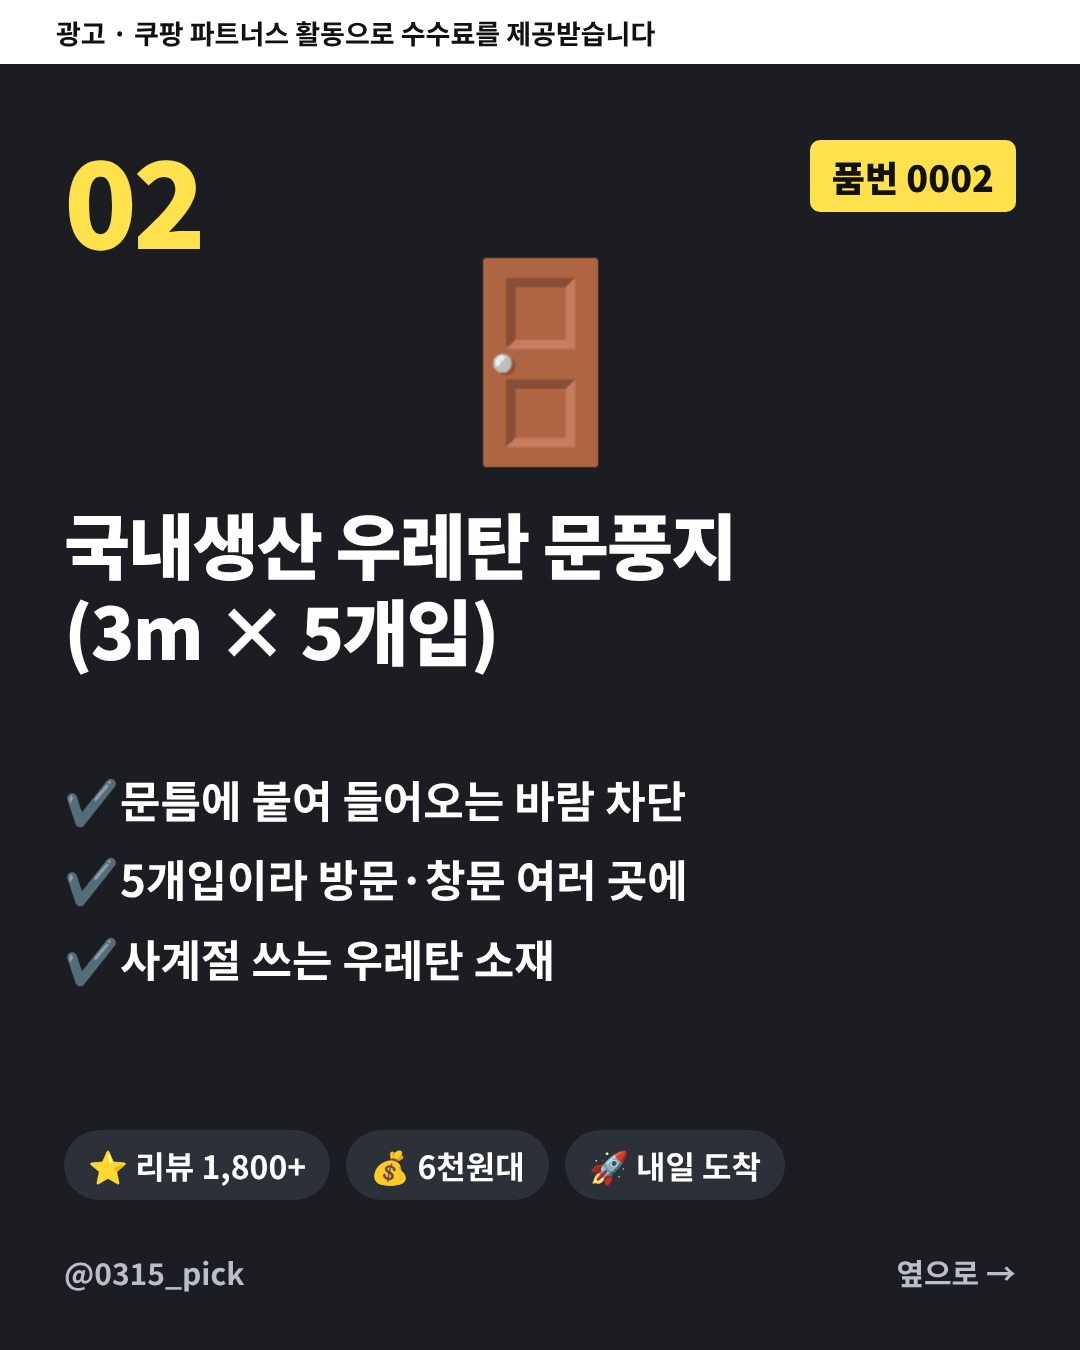
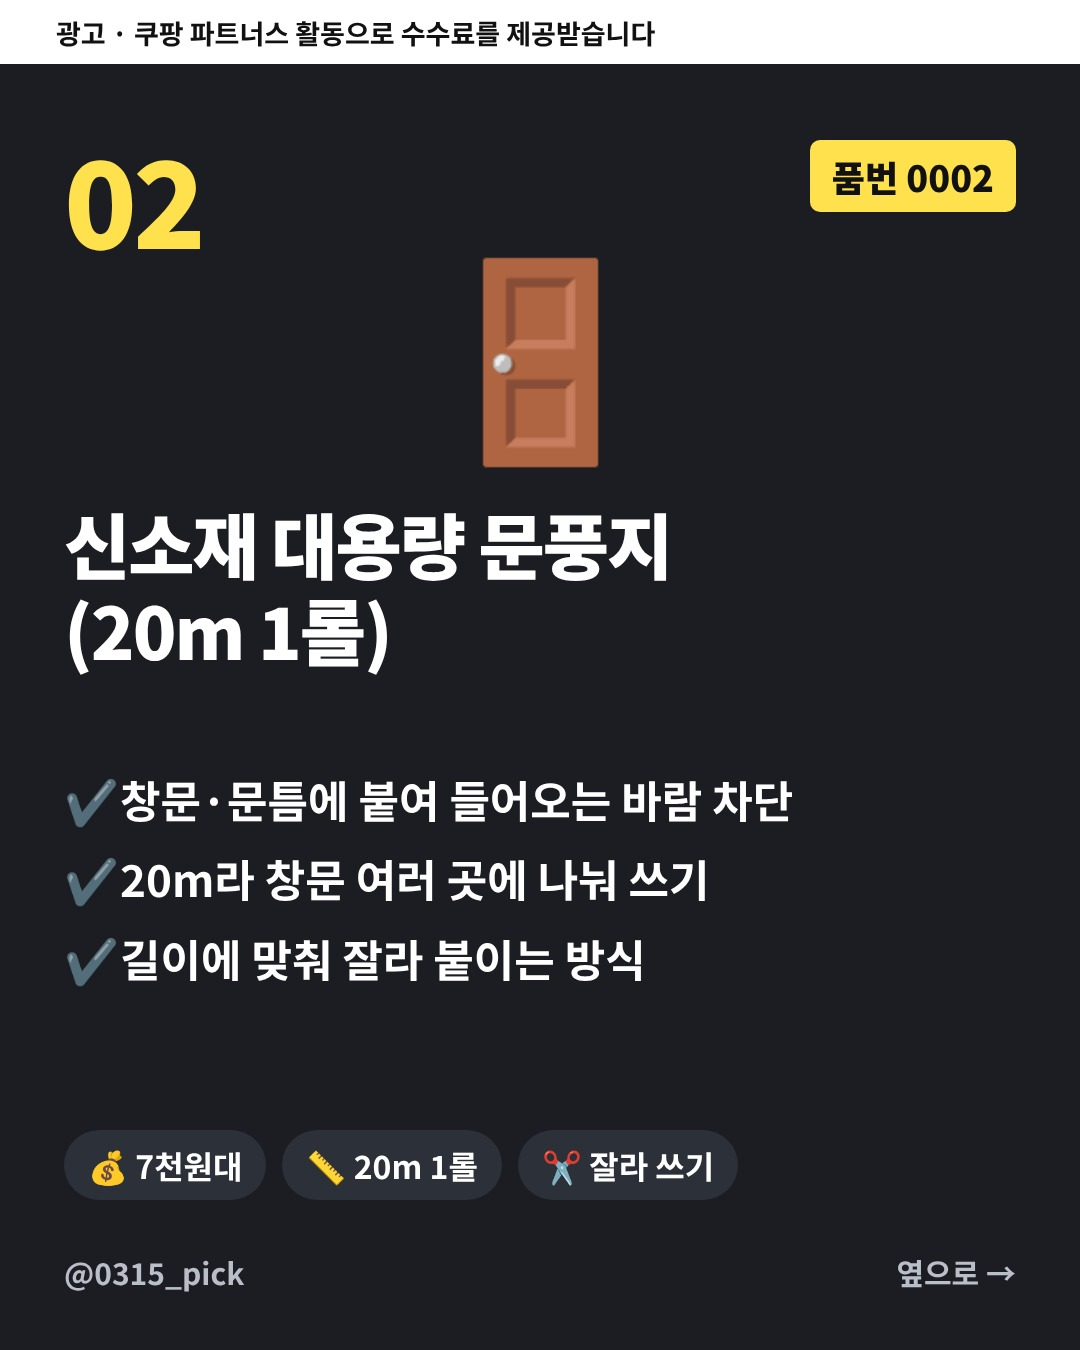
10/22 문풍지를 링크 생성 가능한 끌리온 20m로 교체, 링크 반영
Claude-Session: https://claude.ai/code/session_01KxSwLr9DfWSMf1EfiV4S9g

Changed region(s): [[0.1222, 0.56, 0.7333, 0.7467], [0.0611, 0.3733, 0.7028, 0.4978], [0.0917, 0.84, 0.7028, 0.9022]]

diff --git a/docs/posts/2026-10-22/C/slides/03.html b/docs/posts/2026-10-22/C/slides/03.html
@@ -19,6 +19,6 @@ body{font-family:'Noto Sans CJK KR','Noto Color Emoji',sans-serif;position:relat
 .step b{flex:none;width:76px;height:76px;border-radius:50%;background:#ffe14d;color:#111;font-size:44px;display:grid;place-items:center}
 .step p{font-size:44px;font-weight:700;line-height:1.35}.step small{display:block;font-size:30px;color:#b9bec8;font-weight:600}</style></head><body><div class="ad">광고 · 쿠팡 파트너스 활동으로 수수료를 제공받습니다</div>
 <div class="num">02</div><div class="code">품번 0002</div>
-<div class="pemo">🚪</div><div class="pname">국내생산 우레탄 문풍지<br>(3m × 5개입)</div>
-<div class="pts"><div>문틈에 붙여 들어오는 바람 차단</div><div>5개입이라 방문·창문 여러 곳에</div><div>사계절 쓰는 우레탄 소재</div></div>
-<div class="meta"><span>⭐ 리뷰 1,800+</span><span>💰 6천원대</span><span>🚀 내일 도착</span></div><div class="foot"><span>@0315_pick</span><span>옆으로 →</span></div></body></html>
+<div class="pemo">🚪</div><div class="pname">신소재 대용량 문풍지<br>(20m 1롤)</div>
+<div class="pts"><div>창문·문틈에 붙여 들어오는 바람 차단</div><div>20m라 창문 여러 곳에 나눠 쓰기</div><div>길이에 맞춰 잘라 붙이는 방식</div></div>
+<div class="meta"><span>💰 7천원대</span><span>📏 20m 1롤</span><span>✂ 잘라 쓰기</span></div><div class="foot"><span>@0315_pick</span><span>옆으로 →</span></div></body></html>

diff --git a/docs/posts/2026-10-22/A/slides/07.html b/docs/posts/2026-10-22/A/slides/07.html
@@ -22,7 +22,7 @@ ol.prod b{flex:none;width:64px;height:64px;border-radius:12px;background:#d7263d
 <div class="mast"><div class="brand">0315 <b>생활뉴스</b></div><div class="date">2026.10.22 (목) · 7/7</div></div>
 <div class="body"><h2>오늘 정리한 <span class="hl">겨울 채비템</span></h2>
 <ol class="prod"><li><b>1</b><div>3중 단열 뽁뽁이<span>창문 외풍·결로 막기</span></div></li>
-<li><b>2</b><div>국내생산 우레탄 문풍지<span>문틈 바람 차단</span></div></li>
+<li><b>2</b><div>20m 대용량 신소재 문풍지<span>창문·문틈 바람 차단</span></div></li>
 <li><b>3</b><div>초음파 가습기 4L<span>건조한 실내 습도 관리</span></div></li>
 <li><b>4</b><div>탄소열선 전기요<span>보일러 켜기 전 잠자리 보온</span></div></li></ol>
 <p class="lead" style="font-size:36px">🔗 프로필 링크 → 10/22 ①~④</p></div>

diff --git a/content/make_2026-10-22.py b/content/make_2026-10-22.py
@@ -80,7 +80,7 @@ a_slides = [
 <ul class="chk"><li>창문·현관 틈 외풍 막기</li><li>실내 습도 50% 맞추기</li><li>잠자리 보온부터 챙기기</li><li>두꺼운 외투 대신 얇게 겹쳐 입기</li></ul>""", src=False),
     a_slide(7, n, """<h2>오늘 정리한 <span class="hl">겨울 채비템</span></h2>
 <ol class="prod"><li><b>1</b><div>3중 단열 뽁뽁이<span>창문 외풍·결로 막기</span></div></li>
-<li><b>2</b><div>국내생산 우레탄 문풍지<span>문틈 바람 차단</span></div></li>
+<li><b>2</b><div>20m 대용량 신소재 문풍지<span>창문·문틈 바람 차단</span></div></li>
 <li><b>3</b><div>초음파 가습기 4L<span>건조한 실내 습도 관리</span></div></li>
 <li><b>4</b><div>탄소열선 전기요<span>보일러 켜기 전 잠자리 보온</span></div></li></ol>
 <p class="lead" style="font-size:36px">🔗 프로필 링크 → 10/22 ①~④</p>""", src=False),
@@ -105,7 +105,7 @@ write("A", a_slides, {
     "caption": a_caption,
     "products": [
         {"no": 1, "name": "탐사 국내생산 3중 단열뽁뽁이 에어캡", "coupang_url": "https://www.coupang.com/vp/products/320451654", "affiliate_url": ""},
-        {"no": 2, "name": "코멧 국내생산 사계절 우레탄 문풍지 3m 5개", "coupang_url": "https://www.coupang.com/vp/products/8301704105", "affiliate_url": ""},
+        {"no": 2, "name": "끌리온 20m 신소재 대용량 문풍지", "coupang_url": "https://www.coupang.com/vp/products/9192743442", "affiliate_url": ""},
         {"no": 3, "name": "홈플래닛 초음파 가습기 4L", "coupang_url": "https://www.coupang.com/vp/products/324788226", "affiliate_url": ""},
         {"no": 4, "name": "한일 탄소열선 전기요 (싱글)", "coupang_url": "https://www.coupang.com/vp/products/9150828084", "affiliate_url": ""},
     ],
@@ -199,8 +199,8 @@ c_slides = [
     c_cover,
     c_prod(1, "0001", "🪟", "3중 단열 뽁뽁이<br>(국내생산)", ["창문에 붙이기만 하면 끝", "공기층 3겹으로 외풍·결로 차단", "민무늬라 어느 창에 붙여도 무난"],
            ["⭐ 리뷰 2.4만+", "💰 9천원 안팎", "🚀 내일 도착"]),
-    c_prod(2, "0002", "🚪", "국내생산 우레탄 문풍지<br>(3m × 5개입)", ["문틈에 붙여 들어오는 바람 차단", "5개입이라 방문·창문 여러 곳에", "사계절 쓰는 우레탄 소재"],
-           ["⭐ 리뷰 1,800+", "💰 6천원대", "🚀 내일 도착"]),
+    c_prod(2, "0002", "🚪", "신소재 대용량 문풍지<br>(20m 1롤)", ["창문·문틈에 붙여 들어오는 바람 차단", "20m라 창문 여러 곳에 나눠 쓰기", "길이에 맞춰 잘라 붙이는 방식"],
+           ["💰 7천원대", "📏 20m 1롤", "✂ 잘라 쓰기"]),
     c_prod(3, "0003", "🧊", "실리콘 틈새막이 테이프<br>(45mm × 5m)", ["반투명이라 창틀에 티 안 남", "길게 잘라 쓰는 테이프형", "3천원대로 가장 부담 없음"],
            ["⭐ 리뷰 1,300+", "💰 3천원대", "🚀 내일 도착"]),
     page(C_CSS, f"""<div class="ad">{AD}</div>
@@ -220,8 +220,8 @@ c_caption = f"""{DISC}
 1. 3중 단열 뽁뽁이 💛 품번 0001
 창문에 붙이기만 하면 끝. 공기층 3겹이라 외풍·결로를 같이 막아줘요.
 
-2. 국내생산 우레탄 문풍지 💛 품번 0002
-5개입이라 방문·창문 여러 곳을 한 번에. 문틈으로 들어오는 바람을 막아줘요.
+2. 20m 대용량 신소재 문풍지 💛 품번 0002
+20m 1롤이라 창문·문틈 여러 곳에 잘라 붙여요. 들어오는 바람을 막아줘요.
 
 3. 실리콘 틈새막이 테이프 💛 품번 0003
 반투명이라 창틀에 티가 안 나요. 3천원대로 제일 부담 없는 선택.
@@ -234,7 +234,7 @@ write("C", c_slides, {
     "caption": c_caption,
     "products": [
         {"no": 1, "code": "0001", "name": "탐사 국내생산 3중 단열뽁뽁이 에어캡", "coupang_url": "https://www.coupang.com/vp/products/320451654", "affiliate_url": ""},
-        {"no": 2, "code": "0002", "name": "코멧 국내생산 사계절 우레탄 문풍지 3m 5개", "coupang_url": "https://www.coupang.com/vp/products/8301704105", "affiliate_url": ""},
+        {"no": 2, "code": "0002", "name": "끌리온 20m 신소재 대용량 문풍지", "coupang_url": "https://www.coupang.com/vp/products/9192743442", "affiliate_url": ""},
         {"no": 3, "code": "0003", "name": "아텍스 실리콘 틈새차단 문풍지 테이프 45mm×5m", "coupang_url": "https://www.coupang.com/vp/products/9287063502", "affiliate_url": ""},
     ],
 })

diff --git a/links/2026-10-22.md b/links/2026-10-22.md
@@ -7,9 +7,9 @@
 - A1 탐사 국내생산 3중 단열뽁뽁이 에어캡
   쿠팡: https://www.coupang.com/vp/products/320451654
   파트너스: https://link.coupang.com/a/h2ZA76DMiG
-- A2 코멧 국내생산 사계절 우레탄 문풍지 3m 5개
-  쿠팡: https://www.coupang.com/vp/products/8301704105
-  파트너스: 
+- A2 끌리온 20m 신소재 대용량 문풍지
+  쿠팡: https://www.coupang.com/vp/products/9192743442
+  파트너스: https://link.coupang.com/a/h20AUG8vOC
 - A3 홈플래닛 초음파 가습기 4L
   쿠팡: https://www.coupang.com/vp/products/324788226
   파트너스: https://link.coupang.com/a/h2ZDxjaWGq
@@ -29,9 +29,9 @@
 - C1 탐사 국내생산 3중 단열뽁뽁이 에어캡
   쿠팡: https://www.coupang.com/vp/products/320451654
   파트너스: https://link.coupang.com/a/h2ZA76DMiG
-- C2 코멧 국내생산 사계절 우레탄 문풍지 3m 5개
-  쿠팡: https://www.coupang.com/vp/products/8301704105
-  파트너스: 
+- C2 끌리온 20m 신소재 대용량 문풍지
+  쿠팡: https://www.coupang.com/vp/products/9192743442
+  파트너스: https://link.coupang.com/a/h20AUG8vOC
 - C3 아텍스 실리콘 틈새차단 문풍지 테이프 45mm×5m
   쿠팡: https://www.coupang.com/vp/products/9287063502
   파트너스: https://link.coupang.com/a/h2ZFrzIRps
